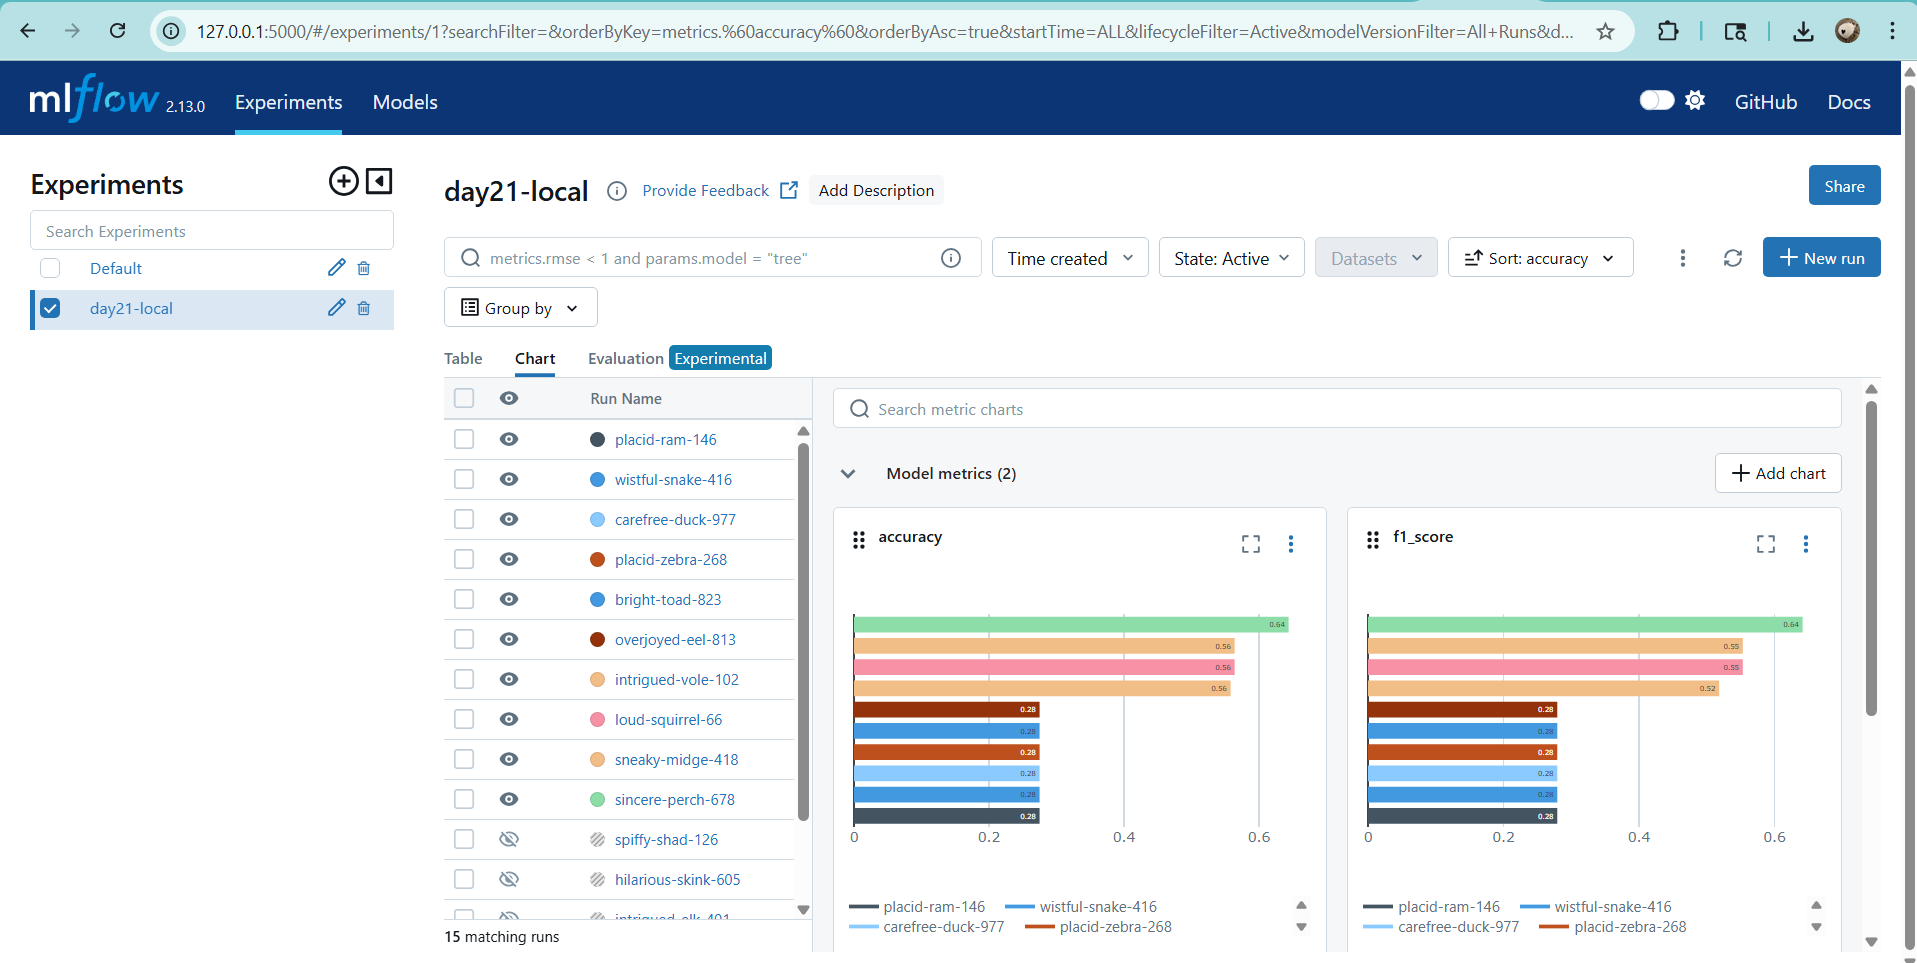
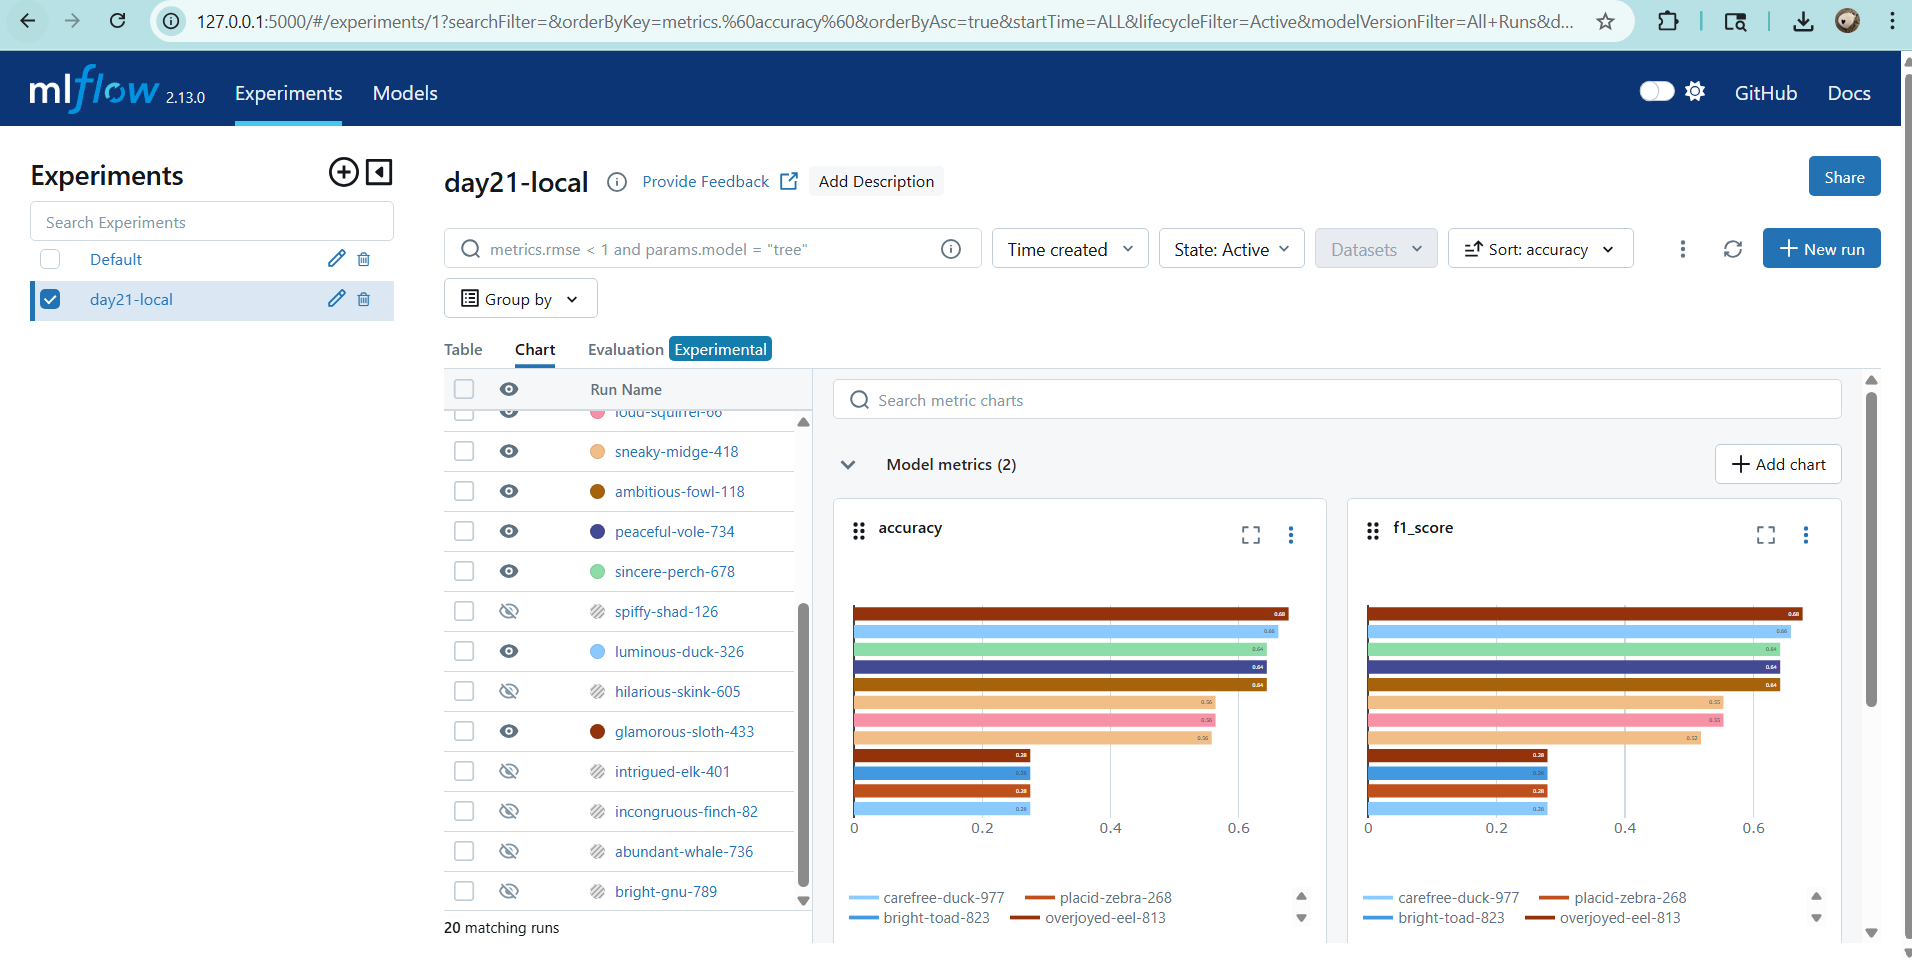
sua chi so trong report.md, chụp lại screenshot bước 1

diff --git a/report.md b/report.md
@@ -6,9 +6,10 @@
 Trong buoc 1, em su dung `RandomForestClassifier` va chay nhieu thi nghiem voi cac bo sieu tham so khac nhau tren MLflow de so sanh chat luong mo hinh. Sau khi thu nghiem, bo tham so tot nhat duoc dung cho pipeline la:
 
 ```yaml
-n_estimators: 200
-max_depth: 10
-min_samples_split: 5
+n_estimators: 500
+max_depth: 20
+min_samples_split: 2
+max_features: log2
 ```
 
 Mo hinh duoc luu vao `models/model.pkl`, dong thoi cac chi so `accuracy` va `f1_score` duoc ghi vao `outputs/metrics.json` de phuc vu CI/CD.
